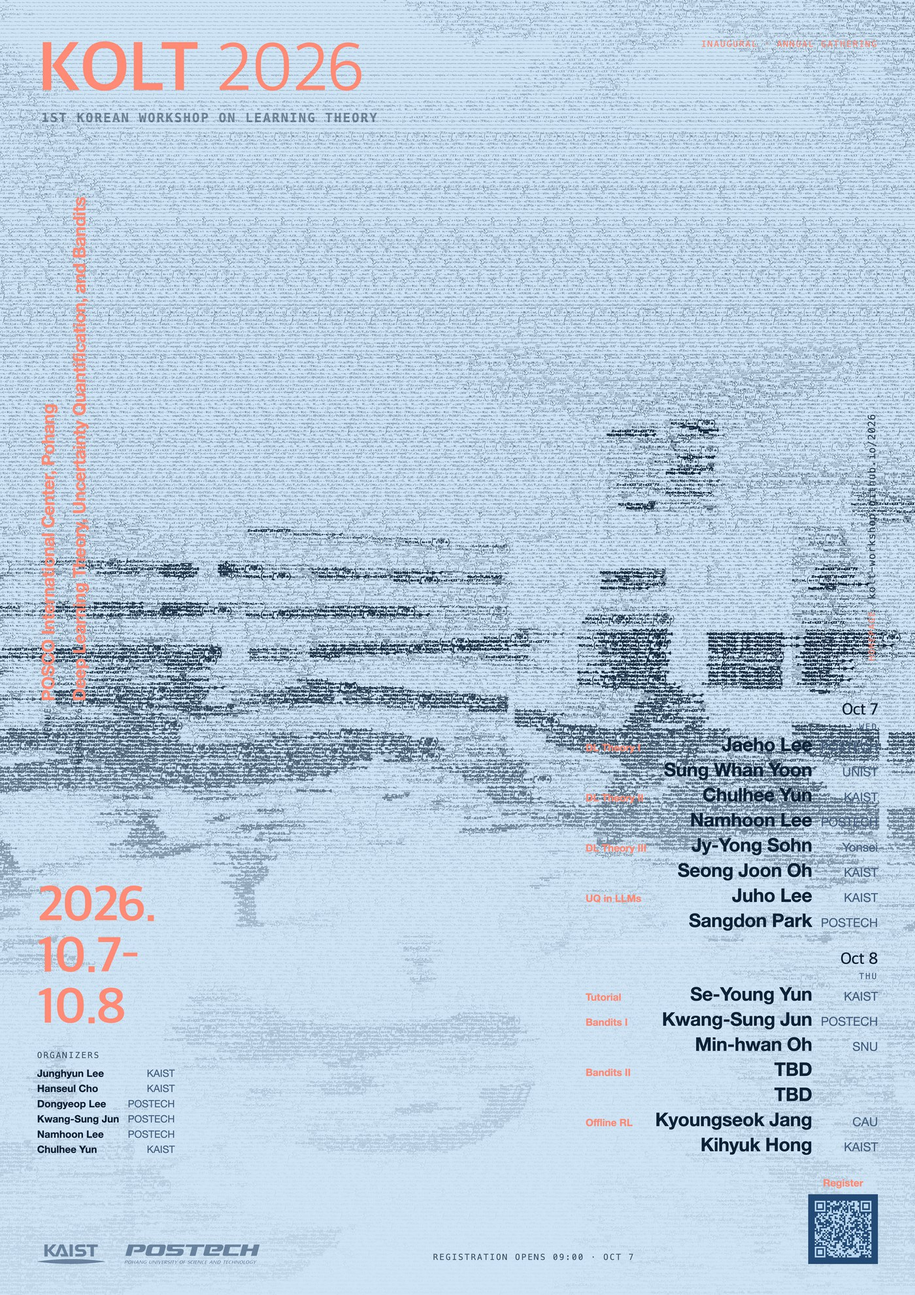
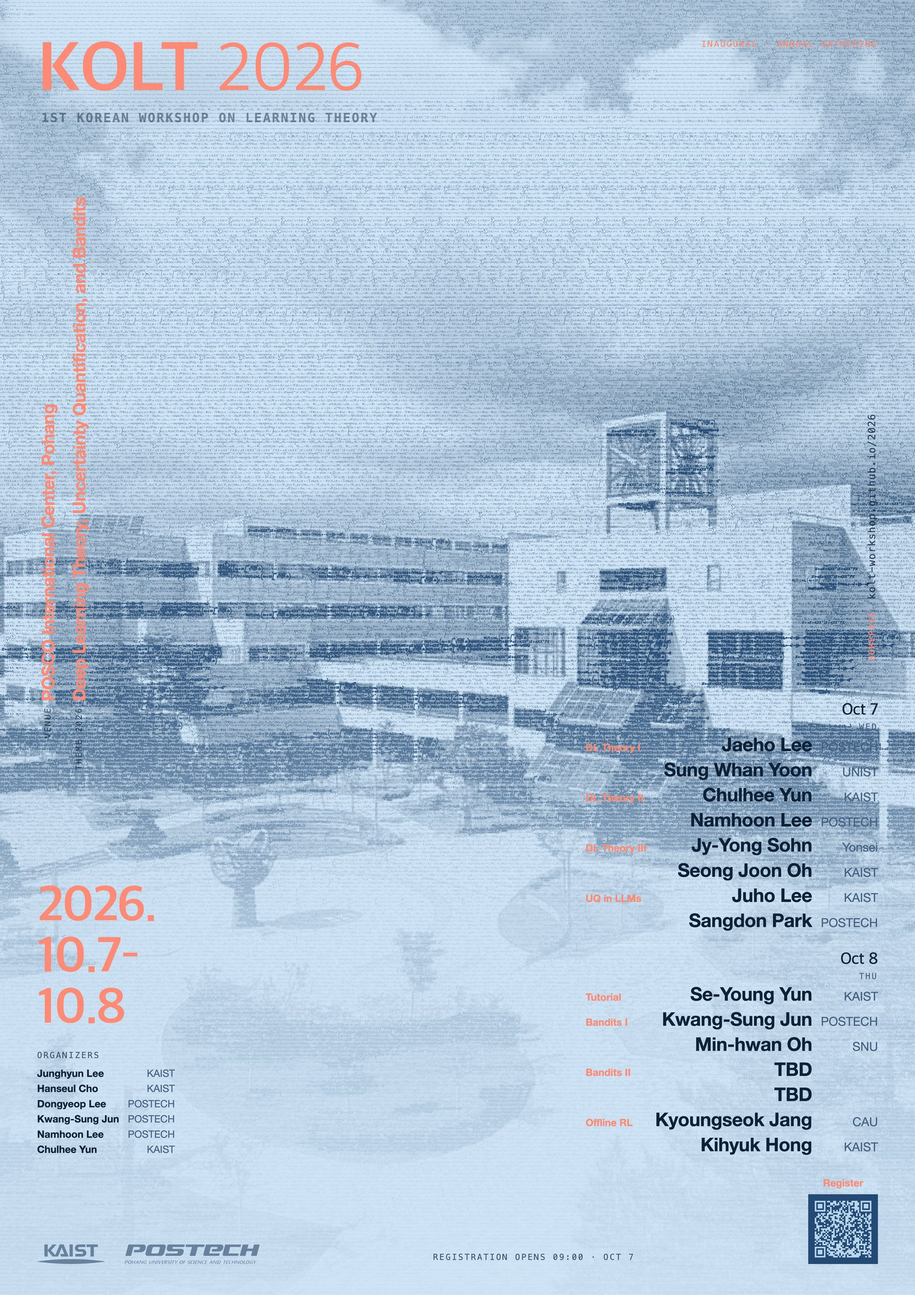
Put the photograph on the pale sheet, and let the drawing choose its own colour
Two faults, and the second is why changing the first kept doing nothing.

The light sheet was never handed a photograph. The dark one is exported with
--ghost and the light one was not, so the campus behind the formulas was
missing from one of a pair that is meant to be one poster printed either way
round. It has the same picture now, printed in paper tones — the defaults are
for a dark ground, a near-black shadow against a pale highlight, and on paper
that arrives as a negative with the sky heavier than the building in front of
it.

And the drawing had no colour of its own. Its strokes are currentColor, so it
inherited the sheet's: white on a dark ground, which is right by accident, and
the near-black the type is set in on paper. That is why the light sheet's
formulas stayed black however often art_ink was changed — the value reached the
recolour pass, found no white to replace, and never reached the page. The
darkest marks measure rgb(34,67,103) now.

The light hero is lifted 22% toward white: its ground, the wash across it and
the heavier wash a phone gets, with the photograph under them held back from
0.62 to 0.54. The gradient keeps its shape, so it still darkens toward the
bottom — it starts lighter. The dark hero is untouched; the first attempt at
this matched on property names and moved both, which turned the dark hero grey.

diff --git a/templates/style.css b/templates/style.css
@@ -3464,8 +3464,8 @@ a.poster-shot:focus-visible {
    explicit choice, and the system default when nothing has been chosen. */
 @media (prefers-color-scheme: light) {
   :root:not([data-theme="dark"]) {
-    --hero-bg: #c8e1f8;
-    --hero-bg2: #aed0f1;
+    --hero-bg: #d4e8fa;
+    --hero-bg2: #c0daf4;
     --hero-title: #0d2137;
     --hero-body: #26405c;
     /* Darkened from #456080 so the foot of the hero can be. The small
@@ -3483,7 +3483,7 @@ a.poster-shot:focus-visible {
     --logo-plate: rgba(255, 255, 255, 0.78);
     --logo-plate: rgba(255, 255, 255, 0.78);
   --hero-photo: url("hero-paper.jpg");
-    --hero-photo-opacity: 0.62;
+    --hero-photo-opacity: 0.54;
     --hero-art-image: url("hero-paper-ink.jpg");
     /* The density is the original contrast; what changed is the floor
        under it. brightness() alone lifts the whole range and takes the
@@ -3505,17 +3505,17 @@ a.poster-shot:focus-visible {
        spend contrast on, and the wash is the only thing buying it. */
     --hero-scrim-narrow: linear-gradient(
         to bottom,
-        rgba(232, 243, 252, 0.84) 0%,
-        rgba(222, 237, 250, 0.86) 26%,
-        rgba(203, 226, 244, 0.88) 52%,
-        rgba(184, 211, 236, 0.9) 100%
+        rgba(237, 246, 253, 0.84) 0%,
+        rgba(229, 241, 251, 0.86) 26%,
+        rgba(214, 232, 246, 0.88) 52%,
+        rgba(200, 221, 240, 0.9) 100%
       );
     --hero-scrim-narrow-art: linear-gradient(
         to bottom,
-        rgba(232, 243, 252, 0.86) 0%,
-        rgba(222, 237, 250, 0.88) 26%,
-        rgba(203, 226, 244, 0.9) 52%,
-        rgba(184, 211, 236, 0.92) 100%
+        rgba(237, 246, 253, 0.86) 0%,
+        rgba(229, 241, 251, 0.88) 26%,
+        rgba(214, 232, 246, 0.9) 52%,
+        rgba(200, 221, 240, 0.92) 100%
       );
     --hero-art-opacity-narrow: 0.32;
     --hero-art-filter-narrow: contrast(1.15) brightness(1.02) url(#ink-floor);
@@ -3524,23 +3524,23 @@ a.poster-shot:focus-visible {
        writing *is* the dark thing, and a heavy scrim rubs it out. */
     --hero-scrim: linear-gradient(
         to right,
-        rgba(207, 228, 245, 0.62) 0%,
-        rgba(207, 228, 245, 0.34) 30%,
-        rgba(207, 228, 245, 0.08) 48%,
+        rgba(218, 234, 247, 0.62) 0%,
+        rgba(218, 234, 247, 0.34) 30%,
+        rgba(218, 234, 247, 0.08) 48%,
         transparent 62%
       ),
       linear-gradient(
         to bottom,
-        rgba(207, 228, 245, 0.06) 0%,
-        rgba(190, 214, 236, 0.24) 40%,
-        rgba(152, 186, 219, 0.56) 66%,
-        rgba(126, 166, 205, 0.74) 100%
+        rgba(218, 234, 247, 0.06) 0%,
+        rgba(204, 223, 240, 0.24) 40%,
+        rgba(175, 201, 227, 0.56) 66%,
+        rgba(154, 186, 216, 0.74) 100%
       );
   }
 }
 :root[data-theme="light"] {
-  --hero-bg: #c8e1f8;
-  --hero-bg2: #aed0f1;
+  --hero-bg: #d4e8fa;
+  --hero-bg2: #c0daf4;
   --hero-title: #0d2137;
   --hero-body: #26405c;
   /* Darkened from #456080 so the foot of the hero can be. The small
@@ -3557,7 +3557,7 @@ a.poster-shot:focus-visible {
   --hero-art-ink: #16324f;
   --logo-plate: rgba(255, 255, 255, 0.78);
   --hero-photo: url("hero-paper.jpg");
-  --hero-photo-opacity: 0.62;
+  --hero-photo-opacity: 0.54;
   --hero-art-image: url("hero-paper-ink.jpg");
   /* The density is the original contrast; what changed is the floor
        under it. brightness() alone lifts the whole range and takes the
@@ -3575,32 +3575,32 @@ a.poster-shot:focus-visible {
   --hero-pill-bg: rgba(240, 247, 253, 0.72);
   --hero-scrim-narrow: linear-gradient(
       to bottom,
-      rgba(232, 243, 252, 0.84) 0%,
-      rgba(222, 237, 250, 0.86) 26%,
-      rgba(203, 226, 244, 0.88) 52%,
-      rgba(184, 211, 236, 0.9) 100%
+      rgba(237, 246, 253, 0.84) 0%,
+      rgba(229, 241, 251, 0.86) 26%,
+      rgba(214, 232, 246, 0.88) 52%,
+      rgba(200, 221, 240, 0.9) 100%
     );
   --hero-scrim-narrow-art: linear-gradient(
       to bottom,
-      rgba(232, 243, 252, 0.86) 0%,
-      rgba(222, 237, 250, 0.88) 26%,
-      rgba(203, 226, 244, 0.9) 52%,
-      rgba(184, 211, 236, 0.92) 100%
+      rgba(237, 246, 253, 0.86) 0%,
+      rgba(229, 241, 251, 0.88) 26%,
+      rgba(214, 232, 246, 0.9) 52%,
+      rgba(200, 221, 240, 0.92) 100%
     );
   --hero-art-opacity-narrow: 0.32;
   --hero-art-filter-narrow: contrast(1.15) brightness(1.02) url(#ink-floor);
   --hero-scrim: linear-gradient(
       to right,
-      rgba(207, 228, 245, 0.62) 0%,
-      rgba(207, 228, 245, 0.34) 30%,
-      rgba(207, 228, 245, 0.08) 48%,
+      rgba(218, 234, 247, 0.62) 0%,
+      rgba(218, 234, 247, 0.34) 30%,
+      rgba(218, 234, 247, 0.08) 48%,
       transparent 62%
     ),
     linear-gradient(
       to bottom,
-      rgba(207, 228, 245, 0.06) 0%,
-      rgba(190, 214, 236, 0.24) 40%,
-      rgba(152, 186, 219, 0.56) 66%,
-      rgba(126, 166, 205, 0.74) 100%
+      rgba(218, 234, 247, 0.06) 0%,
+      rgba(204, 223, 240, 0.24) 40%,
+      rgba(175, 201, 227, 0.56) 66%,
+      rgba(154, 186, 216, 0.74) 100%
     );
 }

diff --git a/tools/poster.py b/tools/poster.py
@@ -611,7 +611,13 @@ FESTIVAL = """<!doctype html>
     background:{ground}; color:{ink}; font-family:"Satoshi","Helvetica Neue",sans-serif;
     -webkit-print-color-adjust:exact; print-color-adjust:exact;
   }}
-  .art {{ position:absolute; inset:0; overflow:hidden; opacity:{art_alpha}; }}
+  /* The drawing sets its own colour. Its strokes are currentColor, so with no
+     colour of its own here it inherited the sheet's — which on a dark ground
+     is white and happens to be right, and on paper is the near-black the type
+     is set in. That is why the light sheet's formulas stayed black however
+     often art_ink was changed: the palette value was reaching the recolour
+     pass, finding no white to replace, and never reaching the page. */
+  .art {{ position:absolute; inset:0; overflow:hidden; opacity:{art_alpha}; color:{art_ink}; }}
   .art svg {{ position:absolute; inset:0; width:100%; height:100%; display:block; }}
   .ghost {{ position:absolute; inset:0; overflow:hidden; opacity:{ghost_alpha}; }}
   .ghost svg {{ position:absolute; inset:0; width:100%; height:100%; display:block; }}
@@ -1944,6 +1950,15 @@ SCHEMES = {
         "art_ink": "#234a75", "ink": "#0d2137", "cool": "#456080",
         "veil1": ".20", "veil2": "0", "veil3": "0", "veil4": ".74", "veil5": ".93",
         "veilx": ".10", "ghost_alpha": ".45",
+        # The photograph behind the formulas, printed in paper tones. The two
+        # defaults are for a dark ground — a near-black shadow and a pale blue
+        # highlight — and on paper that reads as a negative: the sky comes out
+        # heavier than the building in front of it. Here the dark end takes
+        # ink and the light end is the paper itself, driven a little harder
+        # than the default, because on a pale sheet the photograph has to carry
+        # the whole difference between a pale building and a pale sky.
+        "ghost_shadow": "#1b3a5c", "ghost_light": "#cfe4f5",
+        "ghost_contrast": "1.15",
         # The other four, turned over the same way: the veil almost gone where
         # the picture is and back at the ends where type has to be read off it,
         # and every rule and keyline in ink rather than in paper.

diff --git a/tools/export-poster.py b/tools/export-poster.py
@@ -48,7 +48,8 @@ DPI300 = 3.125  # 96 * 3.125 = 300
 SHEETS = [
     # name           artwork            extra poster.py arguments
     ("poster-2026", "art/a2-dark.svg", ["--ghost", "art/campus.jpg"]),
-    ("poster-2026-light", "art/a2-light.svg", ["--scheme", "light"]),
+    ("poster-2026-light", "art/a2-light.svg", ["--scheme", "light",
+                                               "--ghost", "art/campus.jpg"]),
 ]
 
 PRINT_NAMES = {
